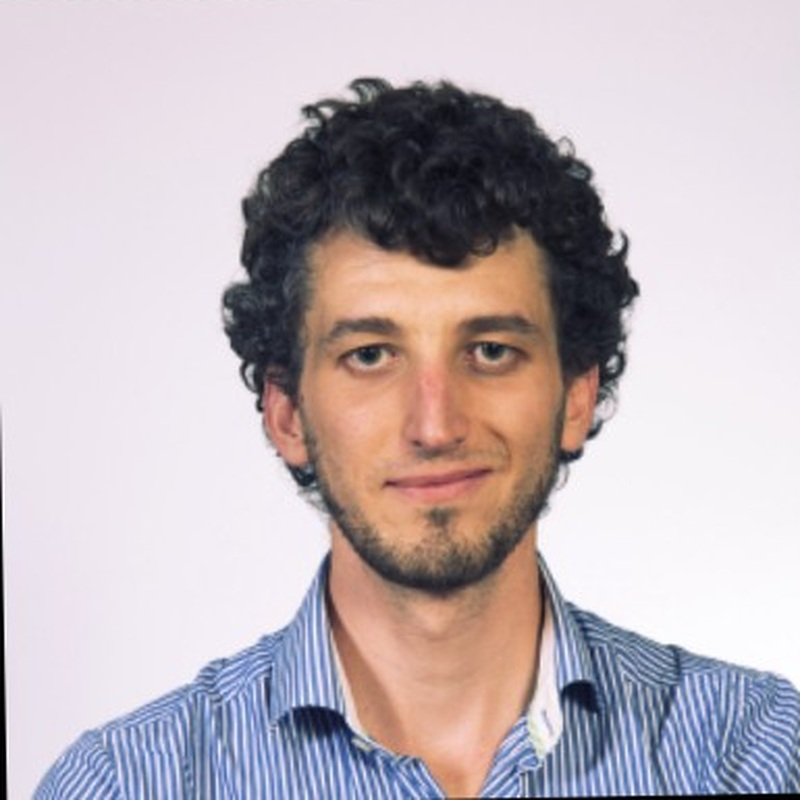
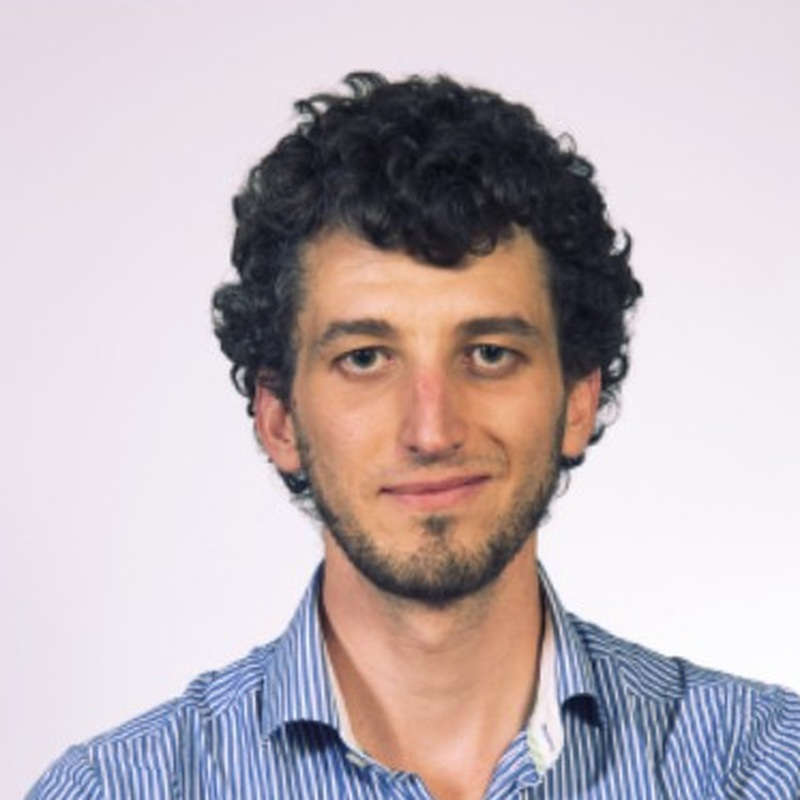
Add topics section to index_one_page.html, including a list of relevant topics for the workshop. Update styles for the topics and adjust padding for better layout. Modify deadline notification text for clarity in index_one_page.html. Update funding description in index.html for specificity. Add new 

Changed region(s): [[0.0, 0.0625, 1.0, 1.0], [0.5625, 0.375, 0.6562, 0.5], [0.5, 0.3125, 0.5312, 0.3438]]

diff --git a/index_one_page.html b/index_one_page.html
@@ -195,6 +195,38 @@
       text-transform: uppercase;
     }
 
+    .topics {
+      padding: 24px 48px 26px;
+      background: #f7f2e8;
+    }
+
+    .topics .section-title { margin-bottom: 16px; }
+
+    .topic-list {
+      display: flex;
+      flex-wrap: wrap;
+      justify-content: center;
+      gap: 9px;
+      margin: 0;
+      padding: 0;
+      list-style: none;
+    }
+
+    .topic-list li {
+      display: flex;
+      flex: 0 1 calc((100% - 27px) / 4);
+      align-items: center;
+      min-height: 42px;
+      padding: 9px 11px;
+      border: 1px solid rgba(18, 33, 58, .12);
+      border-radius: 6px;
+      background: rgba(255, 255, 255, .48);
+      color: #40516a;
+      font-size: 11px;
+      font-weight: 600;
+      line-height: 1.3;
+    }
+
     .people-section { padding: 30px 48px 34px; }
     .people-section.organizers { background: #e8eef4; }
 
@@ -266,12 +298,15 @@
       .export-tools { top: auto; right: 12px; bottom: 12px; }
       .hero { padding: 48px 24px 38px; }
       .summary { grid-template-columns: 1fr; padding: 28px 26px; }
+      .topics { padding: 26px 20px; }
+      .topic-list li { flex-basis: calc((100% - 9px) / 2); }
       .people-section { padding: 28px 20px; }
       .people, .organizers .people { grid-template-columns: repeat(3, 1fr); }
     }
 
     @media (max-width: 430px) {
       .people, .organizers .people { grid-template-columns: repeat(2, 1fr); }
+      .topic-list li { flex-basis: 100%; }
       .deadline { flex-direction: column; gap: 2px; }
       .person h2 { font-size: 16px; }
     }
@@ -288,6 +323,7 @@
       .poster { width: 210mm; min-height: 297mm; box-shadow: none; }
       .hero { padding: 12mm 12mm 9mm; }
       .summary { padding: 7mm 12mm; }
+      .topics { padding: 5mm 10mm; }
       .people-section { padding: 6mm 10mm; }
       .person img { max-width: 21mm; }
     }
@@ -319,13 +355,27 @@
       </p>
       <div class="deadlines">
         <div class="deadline"><span>Paper submission deadline</span><strong>Aug 29, 2026 · AoE</strong></div>
-        <div class="deadline"><span>Accept/reject notification</span><strong>Sep 29, 2026 · AoE</strong></div>
+        <div class="deadline"><span>Decision notification</span><strong>Sep 29, 2026 · AoE</strong></div>
         <div class="deadline"><span>Camera-ready deadline</span><strong>Oct 9, 2026 · AoE</strong></div>
       </div>
       <a class="website-qr" href="https://eethanshi.github.io/stochastic-dynamics-2026/" target="_blank" rel="noopener">
         <img src="assets/workshop-qr.png" alt="QR code for the workshop website">
         <span>Scan for website</span>
       </a>
+    </section>
+
+    <section class="topics">
+      <h2 class="section-title">Included Topics</h2>
+      <ul class="topic-list">
+        <li>Stochastic analysis, applied probability, and stochastic control</li>
+        <li>SDEs, SPDEs, and random dynamical systems</li>
+        <li>Neural operator methods</li>
+        <li>Diffusion, flow-based, and score-based generative models</li>
+        <li>Probabilistic forecasting and uncertainty quantification</li>
+        <li>Mathematical finance and stochastic modelling in climate</li>
+        <li>Applications in scientific discovery — physics, biology, chemistry, materials science, and molecular science</li>
+        <li>Stochastic modelling and learning for robotics and autonomous systems</li>
+      </ul>
     </section>
 
     <section class="people-section">
@@ -388,7 +438,7 @@
           <p>University of Sydney</p>
         </article>
         <article class="person">
-          <img src="assets/people/valentin-square.jpg" alt="Valentin De Bortoli">
+          <img src="assets/people/valentin-square.jpg?v=3" alt="Valentin De Bortoli">
           <h2>Valentin De Bortoli</h2>
           <p>Google DeepMind · ENS Paris</p>
         </article>

diff --git a/index.html b/index.html
@@ -621,7 +621,7 @@
   <div class="wrap">
     <div class="eyebrow">Support</div>
     <h2>Funding</h2>
-    <p class="lead">Generously sponsored by the University of Cambridge and the University of Sydney, supporting best-paper awards and community building — including a workshop dinner and a local visit at the University of Sydney for speakers, organizers, and award recipients.</p>
+    <p class="lead">Generously sponsored by the University of Cambridge and the University of Sydney, supporting best-paper awards and community building — including a workshop dinner and a local visit to School of Business Analytics and Marketing at the University of Sydney for speakers, organizers, and award recipients.</p>
     <div class="funders">
       <div class="funder"><span class="ico">C</span> University of Cambridge</div>
       <div class="funder"><span class="ico">S</span> University of Sydney</div>
